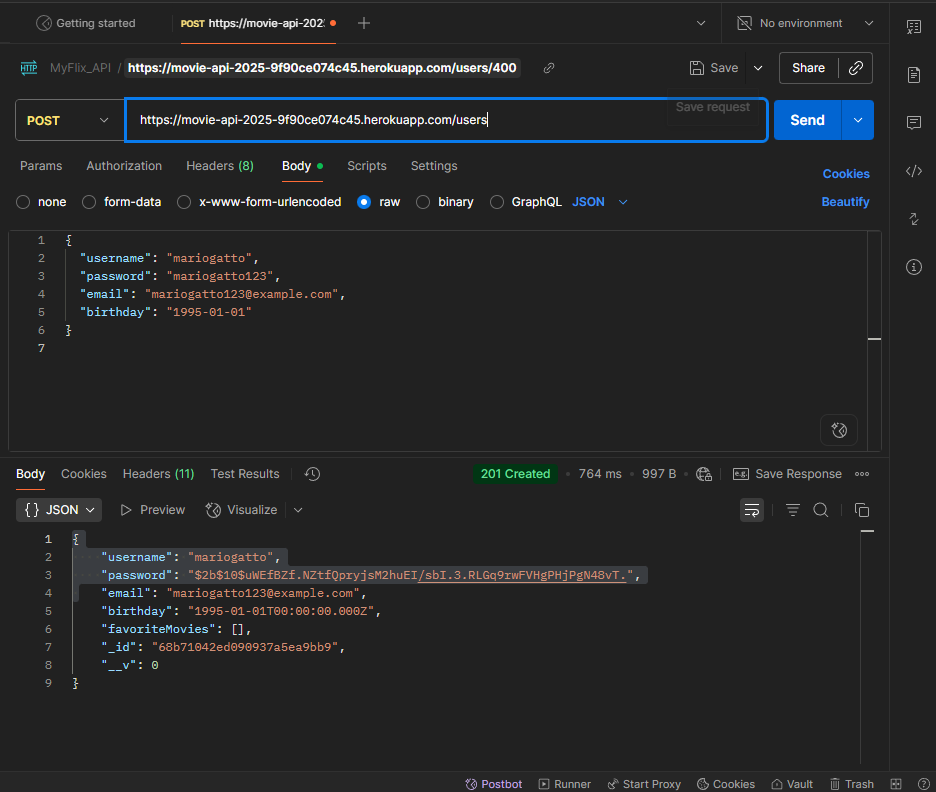
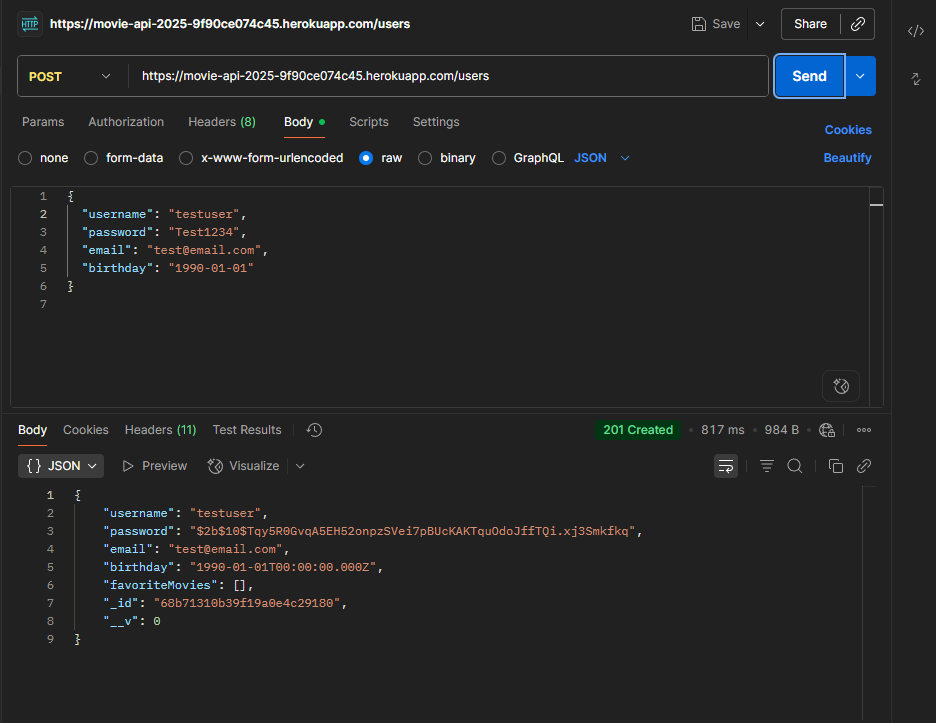
Fix user registration validation: changed all fields to lowercase to match schema

diff --git a/auth.js b/auth.js
@@ -12,12 +12,12 @@ module.exports = (app) => {
     return jwt.sign(
       {
         _id: user._id,
-        Username: user.Username,
-        Email: user.Email,
+        username: user.username,
+        email: user.email,
       },
       JWT_SECRET,
       {
-        subject: user.Username,
+        subject: user.username,
         expiresIn: "7d",
         algorithm: "HS256",
       }
@@ -28,7 +28,9 @@ module.exports = (app) => {
   router.post("/", (req, res) => {
     passport.authenticate("local", { session: false }, (error, user, info) => {
       if (error || !user) {
-        return res.status(400).json({ message: "Incorrect username or password.", user: user });
+        return res
+          .status(400)
+          .json({ message: "Incorrect username or password.", user: user });
       }
 
       req.login(user, { session: false }, (error) => {

diff --git a/passport.js b/passport.js
@@ -38,7 +38,7 @@ passport.use(
       passwordField: "password",
     },
     (username, password, done) => {
-      User.findOne({ username: username }, (err, user) => {
+      Users.findOne({ username: username }, (err, user) => {
         if (err) return done(err);
         if (!user) return done(null, false, { message: "Incorrect username." });
 
